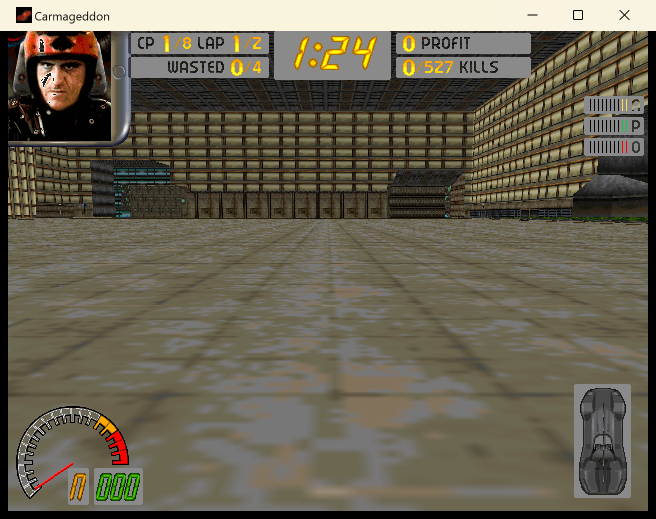
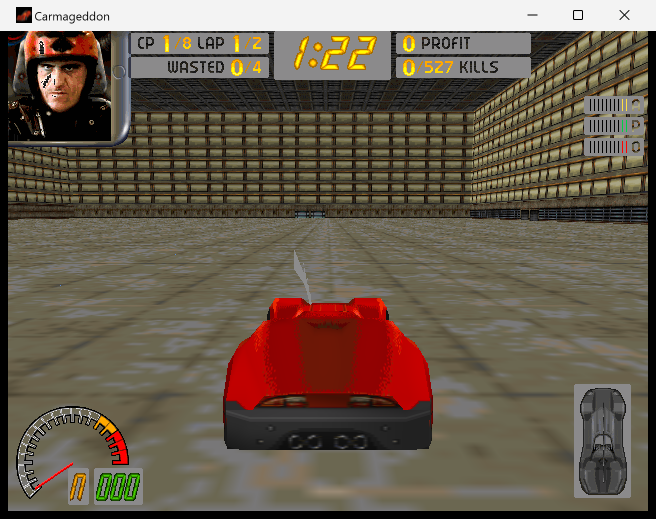
render_vk: draw the player car with correct depth
Fix the world transform path for the first race frame: build the BRender projection without stale v1db viewport state, traverse children of non-rendering actors, and map BRender's reversed near/far depth convention to Vulkan. The car is now visible and upright over the track. Make RVK_AUTOSTART available in both renderer builds for same-pose reference captures and refresh the first-frame screenshot.

diff --git a/src/DETHRACE/common/render_vk_bridge.c b/src/DETHRACE/common/render_vk_bridge.c
@@ -653,15 +653,13 @@ static void GameRender_AddActor(br_actor *actor, br_actor *universe, br_model *m
     if (actor->render_style != BR_RSTYLE_DEFAULT) {
         style = actor->render_style;
     }
-    if (style == BR_RSTYLE_NONE) {
-        return;
-    }
-    if (actor->type == BR_ACTOR_MODEL && model != NULL
+    if (style != BR_RSTYLE_NONE && actor->type == BR_ACTOR_MODEL && model != NULL
         && ((model->vertices != NULL && model->faces != NULL && model->nvertices != 0 && model->nfaces != 0) || model->prepared != NULL)) {
         GameRender_AddModel(actor, universe, model, material);
     }
     for (child = actor->children; child != NULL; child = child->next) {
-        GameRender_AddActor(child, universe, model, material, style);
+        GameRender_AddActor(child, universe, model, material,
+            style == BR_RSTYLE_NONE ? BR_RSTYLE_DEFAULT : style);
     }
 }
 
@@ -933,17 +931,41 @@ void GameRender_Begin2D(br_pixelmap *back) {
 }
 
 void GameRender_BeginScene(br_actor *camera) {
+    br_camera *camera_data;
+    br_matrix34 camera_to_world;
+    br_matrix4 projection;
     br_matrix4 view_proj;
+    br_pixelmap *screen;
+    br_scalar origin_x = BR_SCALAR(0);
+    br_scalar origin_y = BR_SCALAR(0);
+    br_scalar aspect;
     int row;
     int column;
 
     gRenderVk_camera = camera;
     GameRender_ResetScene();
     memset(gRenderVk_view_proj, 0, sizeof(gRenderVk_view_proj));
-    if (!GameRender_IsActive() || camera == NULL || gUniverse_actor == NULL) {
+    if (!GameRender_IsActive() || camera == NULL || gUniverse_actor == NULL || camera->type_data == NULL) {
         return;
     }
-    BrActorToScreenMatrix4(&view_proj, gUniverse_actor, camera);
+    camera_data = (br_camera *)camera->type_data;
+    screen = gRender_screen;
+    if (screen != NULL && screen->width != 0 && screen->height != 0) {
+        origin_x = (br_scalar)(screen->origin_x - screen->width / 2) / (br_scalar)(screen->width / 2);
+        origin_y = -(br_scalar)(screen->origin_y - screen->height / 2) / (br_scalar)(screen->height / 2);
+        aspect = (br_scalar)screen->width / (br_scalar)screen->height;
+    } else {
+        aspect = camera_data->aspect;
+    }
+    if (aspect <= BR_SCALAR(0)) {
+        aspect = BR_SCALAR(1);
+    }
+    BrMatrix4Perspective(&projection, camera_data->field_of_view, aspect,
+        -camera_data->hither_z, -camera_data->yon_z);
+    projection.m[2][0] = -origin_x;
+    projection.m[2][1] = -origin_y;
+    BrActorToActorMatrix34(&camera_to_world, gUniverse_actor, camera);
+    BrMatrix4Mul34(&view_proj, &camera_to_world, &projection);
     for (row = 0; row < 4; row++) {
         for (column = 0; column < 4; column++) {
             gRenderVk_view_proj[column * 4 + row] = (float)view_proj.m[column][row];

diff --git a/src/DETHRACE/common/structur.c b/src/DETHRACE/common/structur.c
@@ -535,7 +535,7 @@ void DoGame(void) {
             LoadRaceInfo(gProgram_state.current_race_index, &gCurrent_race);
             FillInRaceInfo(&gCurrent_race);
             DisposeRaceInfo(&gCurrent_race);
-        } else if (harness_game_config.render_vk_mode && getenv("RVK_AUTOSTART") != NULL) {
+        } else if (getenv("RVK_AUTOSTART") != NULL) {
             LoadRaceInfo(gProgram_state.current_race_index, &gCurrent_race);
             FillInRaceInfo(&gCurrent_race);
             gProgram_state.view_type = eVT_Scene;
@@ -600,7 +600,7 @@ void DoGame(void) {
                             && gProgram_state.prog_status == eProg_game_ongoing
                             && !gAbandon_game);
                     } else {
-                        if (harness_game_config.render_vk_mode && getenv("RVK_AUTOSTART") != NULL) {
+                        if (getenv("RVK_AUTOSTART") != NULL) {
                             options_result = eSO_continue;
                         } else {
                             do {
@@ -722,15 +722,12 @@ void InitialiseProgramState(void) {
 void DoProgram(void) {
     InitialiseProgramState();
     do {
-#ifdef DETHRACE_RENDER_VK
-        if (harness_game_config.render_vk_mode && getenv("RVK_AUTOSTART") != NULL
-            && gProgram_state.prog_status == eProg_intro) {
+        if (getenv("RVK_AUTOSTART") != NULL && gProgram_state.prog_status == eProg_intro) {
             if (DoOnePlayerStart()) {
                 gProgram_state.prog_status = eProg_game_starting;
                 continue;
             }
         }
-#endif
         switch (gProgram_state.prog_status) {
         case eProg_intro:
             DisposeGameIfNecessary();

diff --git a/src/render_vk/src/rvk_shaders.h b/src/render_vk/src/rvk_shaders.h
@@ -44,8 +44,8 @@ static const uint32_t rvk_world_vert_spv[] = {
     0x00000000, 0x00050051, 0x00000006, 0x00000020, 0x0000001d, 0x00000001, 0x00050051, 0x00000006,
     0x00000021, 0x0000001d, 0x00000002, 0x00070050, 0x00000007, 0x00000022, 0x0000001f, 0x00000020,
     0x00000021, 0x0000001e, 0x00050091, 0x00000007, 0x00000023, 0x00000019, 0x00000022, 0x00050051,
-    0x00000006, 0x00000028, 0x00000023, 0x00000002, 0x00050051, 0x00000006, 0x0000002b, 0x00000023,
-    0x00000003, 0x00050081, 0x00000006, 0x0000002c, 0x00000028, 0x0000002b, 0x00050085, 0x00000006,
+    0x00000006, 0x00000028, 0x00000023, 0x00000003, 0x00050051, 0x00000006, 0x0000002b, 0x00000023,
+    0x00000002, 0x00050083, 0x00000006, 0x0000002c, 0x00000028, 0x0000002b, 0x00050085, 0x00000006,
     0x0000002e, 0x0000002c, 0x0000002d, 0x00060052, 0x00000007, 0x00000054, 0x0000002e, 0x00000023,
     0x00000002, 0x00050051, 0x00000006, 0x00000032, 0x00000023, 0x00000001, 0x0004007f, 0x00000006,
     0x00000033, 0x00000032, 0x00060052, 0x00000007, 0x00000057, 0x00000033, 0x00000054, 0x00000001,

diff --git a/src/DETHRACE/common/newgame.c b/src/DETHRACE/common/newgame.c
@@ -405,8 +405,7 @@ int DoOnePlayerStart(void) {
     int merrily_looping;
     tProgram_state saved_state;
 
-#ifdef DETHRACE_RENDER_VK
-    if (harness_game_config.render_vk_mode && getenv("RVK_AUTOSTART") != NULL) {
+    if (getenv("RVK_AUTOSTART") != NULL) {
         gProgram_state.frank_or_anniness = 0;
         gProgram_state.skill_level = 1;
         StartLoadingScreen();
@@ -425,7 +424,6 @@ int DoOnePlayerStart(void) {
         InitGame(0);
         return 1;
     }
-#endif
 
     if (OriginalCarmaCDinDrive()) {
         memcpy(&saved_state, &gProgram_state, sizeof(tProgram_state));

diff --git a/src/render_vk/src/rvk_pipeline.c b/src/render_vk/src/rvk_pipeline.c
@@ -102,7 +102,7 @@ static RvkResult rvk_create_world_pipeline(RvkDevice *device) {
     depth_stencil.sType = VK_STRUCTURE_TYPE_PIPELINE_DEPTH_STENCIL_STATE_CREATE_INFO;
     depth_stencil.depthTestEnable = VK_TRUE;
     depth_stencil.depthWriteEnable = VK_TRUE;
-    depth_stencil.depthCompareOp = VK_COMPARE_OP_LESS;
+    depth_stencil.depthCompareOp = VK_COMPARE_OP_LESS_OR_EQUAL;
     depth_stencil.depthBoundsTestEnable = VK_FALSE;
     depth_stencil.stencilTestEnable = VK_FALSE;
 

diff --git a/plan.md b/plan.md
@@ -2,7 +2,7 @@
 
 Status: the new renderer must not be based on the legacy BRender/DDI/vkrend code. N0 is
 implemented in `src/render_vk/` and verified. The first in-game race frame is rendered by the new
-renderer through the runtime bridge: the world pass contains the track and actors, and the
+renderer through the runtime bridge: the world pass contains the track and the player car, and the
 existing HUD is presented as a transitional CPU overlay. The legacy path remains a behavioral
 reference and the software/OpenGL fallback; it is not the base of the new renderer. Branch
 `feature/vkrend-v1`; engine `b006d70` and dethrace `441327a` plus the N0 and first-light work.
@@ -108,9 +108,9 @@ proves mutable transforms/materials. Software-reference screenshots for the same
 
 The runtime bridge was brought forward for first light. It walks the live BRender actor tree,
 reads source model arrays for cars and prepared `v11group` data for track models whose source
-arrays were released, and submits one draw per material run. The first race frame is captured in
-`docs/images/render-vk-first-race.png`. The offline importer and standalone viewer are still to
-do.
+arrays were released, and submits one draw per material run. The first race frame, with the car
+visible and upright, is captured in `docs/images/render-vk-first-race.png`. The offline importer
+and standalone viewer are still to do; the horizon/sky pass is also missing.
 
 Exit: imported scene matches the software reference within the comparator tolerance; asset format
 documented; runtime renderer has no BRender dependency.
@@ -123,9 +123,10 @@ semaphores or 2-3 frames in flight until a frame-level profile shows the simpler
 bottleneck.
 
 The world and overlay passes, depth, textures, sampler/descriptor arrays and one frame in flight
-exist. The first race scene submits about 3408 draws, 38822 vertices and 66261 indices because
-the bridge emits one draw per material run with no batching. Shadow, mirror, cockpit and effect
-passes are not implemented.
+exist. BRender's reversed depth convention is mapped explicitly; without it the track occludes the
+car. The first race scene submits about 3408 draws, 38822 vertices and 66261 indices because the
+bridge emits one draw per material run with no batching. Shadow, mirror, cockpit, horizon/sky and
+effect passes are not implemented.
 
 Exit: 640x480 scene at target throughput in the authorized optimized build; validation clean;
 p50/p95/p99 recorded; no per-draw descriptor writes; draw count measured; the measured reason for
@@ -136,9 +137,10 @@ Add a game-facing `render_api` and `game_render` bridge. Port `RenderAFrame` orc
 camera, cars, track, effects, HUD, map, mirror, cockpit, shadows. Keep the legacy path behind a
 selector for A/B. No BRender renderer/DDI calls in the new path.
 
-The forward world, camera and HUD overlay now run in a race. `RVK_AUTOSTART=1` is a verification
-hook that skips the menus and grid screen; it is not a shipping default. Map, mirror, cockpit,
-shadows, smoke, sparks, splashes and summary parity remain.
+The forward world, camera, player car and HUD overlay now run in a race. `RVK_AUTOSTART=1` is a
+verification hook that skips the menus and grid screen; it works in both renderer builds for
+same-pose comparisons and is not a shipping default. Map, mirror, cockpit, horizon/sky, shadows,
+smoke, sparks, splashes and summary parity remain.
 
 Exit: race playable through the new path; forward/mirror/cockpit/map/summary parity; legacy
 software/OpenGL still work.

diff --git a/docs/render-vk-architecture.md b/docs/render-vk-architecture.md
@@ -134,9 +134,11 @@ smoke executables need an SDL platform. SDL3 support requires SDL 3.2.0 or newer
 ### First in-game race frame
 
 The new path is selected with `--render-vk`. A test hook, `RVK_AUTOSTART=1`, starts a one-player
-race without menu input; it is a verification aid, not a shipping default. The log shows
+race without menu input; it works in both renderer builds so the same pose can be captured with
+the legacy path for comparison. It is a verification aid, not a shipping default. The log shows
 `VKREND: race loop started`, and the new renderer builds and submits a world pass every frame. The
-first captured race frame is `docs/images/render-vk-first-race.png`.
+first captured race frame is `docs/images/render-vk-first-race.png`; it shows the track and the
+player car upright, with the existing HUD overlay.
 
 The frame uses:
 
@@ -150,7 +152,15 @@ The frame uses:
 The first measured scene has about 3408 draws, 38822 vertices and 66261 indices. This is a
 correctness milestone, not a performance result: there is no batching, indirect submission,
 shadows, mirror, cockpit target, smoke/spark effect or full UI pass yet. The CPU bridge walks the
-live BRender scene every frame. The 200 FPS target remains unmeasured.
+live BRender scene every frame. The horizon/sky pass is also missing, so the track backdrop does
+not yet match the legacy capture. The 200 FPS target remains unmeasured.
+
+Depth needs the BRender convention, not the usual OpenGL one. BRender's perspective maps the near
+plane to `z/w = +1` and the far plane to `-1`. The world shader therefore writes
+`(clip.w - clip.z) * 0.5` and the pipeline compares depth with `LESS_OR_EQUAL`; using
+`(clip.z + clip.w) * 0.5` hides the player car behind the track. Actor children are traversed even
+when a parent's render style is `BR_RSTYLE_NONE`, because the car uses a non-rendering master actor
+above its model actors.
 
 ## N1 plan
 
